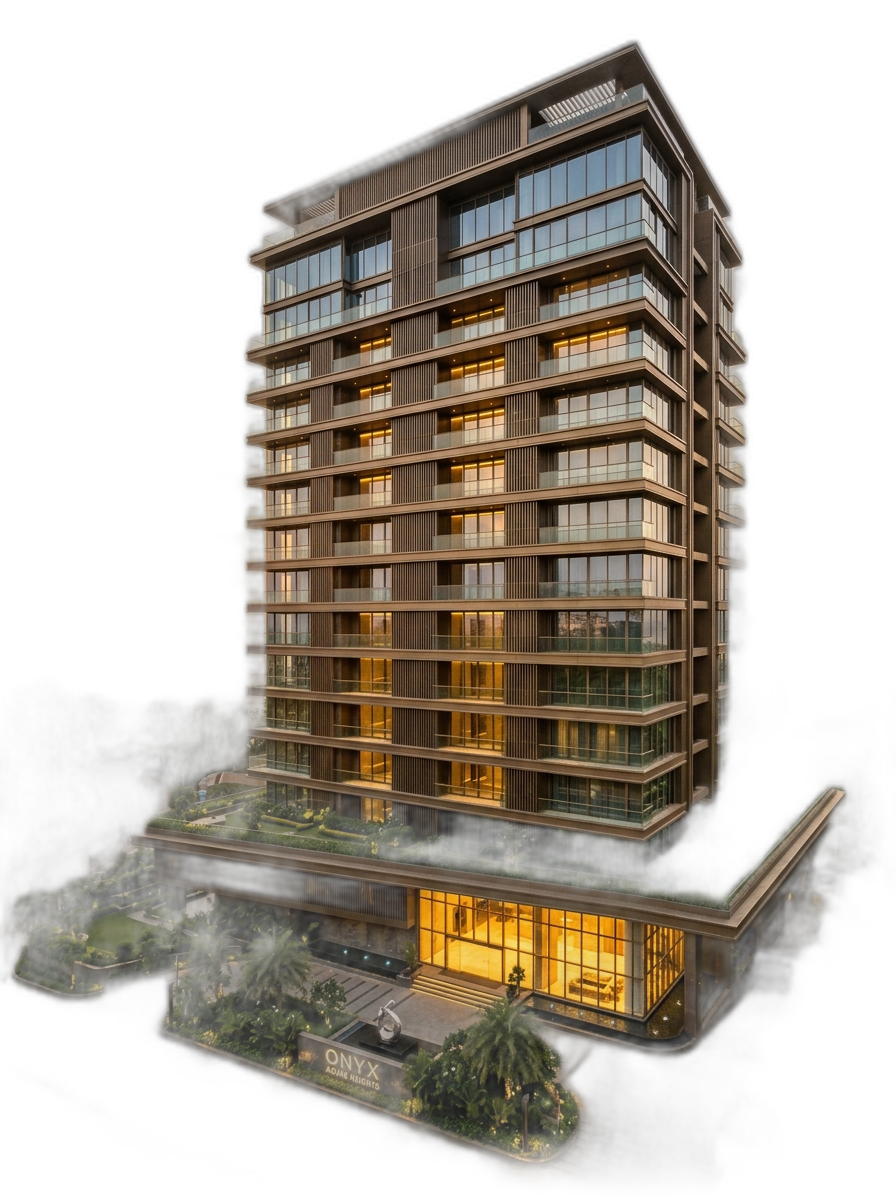
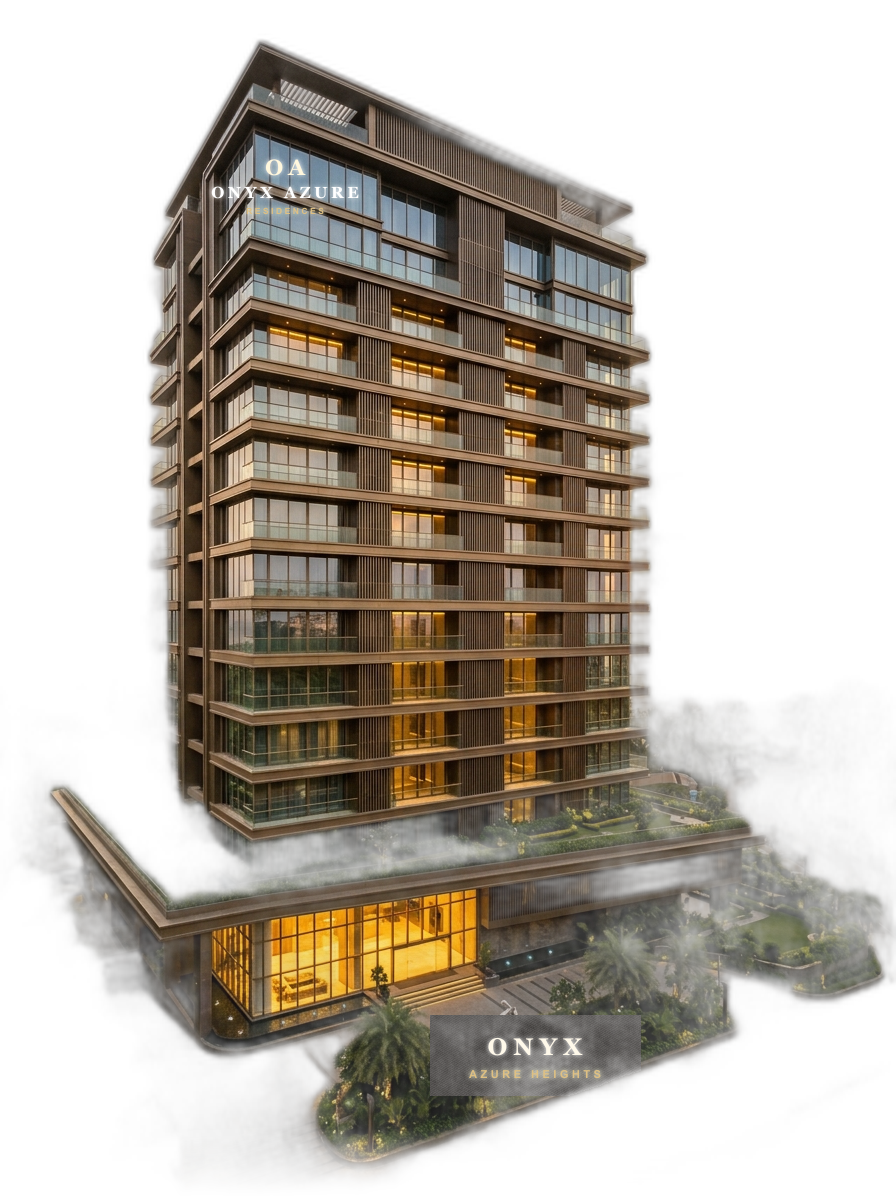
fix(hero): flip left apartment to face right, space background towers outward for unblocked ONYX branding

diff --git a/src/components/Hero.tsx b/src/components/Hero.tsx
@@ -285,12 +285,12 @@ export function Hero({ onExplore, onBookVisit }: HeroProps) {
           }}
           className="absolute inset-0 z-[3] flex items-end justify-center pointer-events-none will-change-transform"
         >
-          {/* Left Flanking Residence Tower */}
+          {/* Left Flanking Residence Tower (Flipped towards right, unblocked branding) */}
           <motion.div
             initial={prefersReducedMotion ? false : { opacity: 0, y: "10%" }}
             animate={{ opacity: 1, y: "0%" }}
             transition={{ duration: 1.9, delay: 0.28, ease: EXPO_OUT }}
-            className="absolute bottom-0 left-[50%] -translate-x-[98%] sm:-translate-x-[92%] md:-translate-x-[86%] lg:-translate-x-[82%] shrink-0 w-[125vw] sm:w-[90vw] md:w-[62vw] lg:w-[56vw] max-w-[900px] h-[70vh] sm:h-[78vh] md:h-[84vh] will-change-transform pointer-events-none"
+            className="absolute bottom-0 left-[50%] -translate-x-[108%] sm:-translate-x-[102%] md:-translate-x-[98%] lg:-translate-x-[94%] shrink-0 w-[125vw] sm:w-[90vw] md:w-[62vw] lg:w-[56vw] max-w-[900px] h-[70vh] sm:h-[78vh] md:h-[84vh] will-change-transform pointer-events-none"
           >
             <Image
               src="/assets/skyline_tower_left_cutout.png"
@@ -303,12 +303,12 @@ export function Hero({ onExplore, onBookVisit }: HeroProps) {
             />
           </motion.div>
 
-          {/* Right Flanking Residence Tower */}
+          {/* Right Flanking Residence Tower (Shifted slightly outward so ONYX CELESTIA is fully visible) */}
           <motion.div
             initial={prefersReducedMotion ? false : { opacity: 0, y: "10%" }}
             animate={{ opacity: 1, y: "0%" }}
             transition={{ duration: 1.9, delay: 0.34, ease: EXPO_OUT }}
-            className="absolute bottom-0 left-[50%] -translate-x-[2%] sm:-translate-x-[8%] md:-translate-x-[14%] lg:-translate-x-[18%] shrink-0 w-[125vw] sm:w-[90vw] md:w-[62vw] lg:w-[56vw] max-w-[900px] h-[70vh] sm:h-[78vh] md:h-[84vh] will-change-transform pointer-events-none"
+            className="absolute bottom-0 left-[50%] translate-x-[6%] sm:-translate-x-[0%] md:-translate-x-[4%] lg:-translate-x-[8%] shrink-0 w-[125vw] sm:w-[90vw] md:w-[62vw] lg:w-[56vw] max-w-[900px] h-[70vh] sm:h-[78vh] md:h-[84vh] will-change-transform pointer-events-none"
           >
             <Image
               src="/assets/skyline_tower_right_cutout.png"
